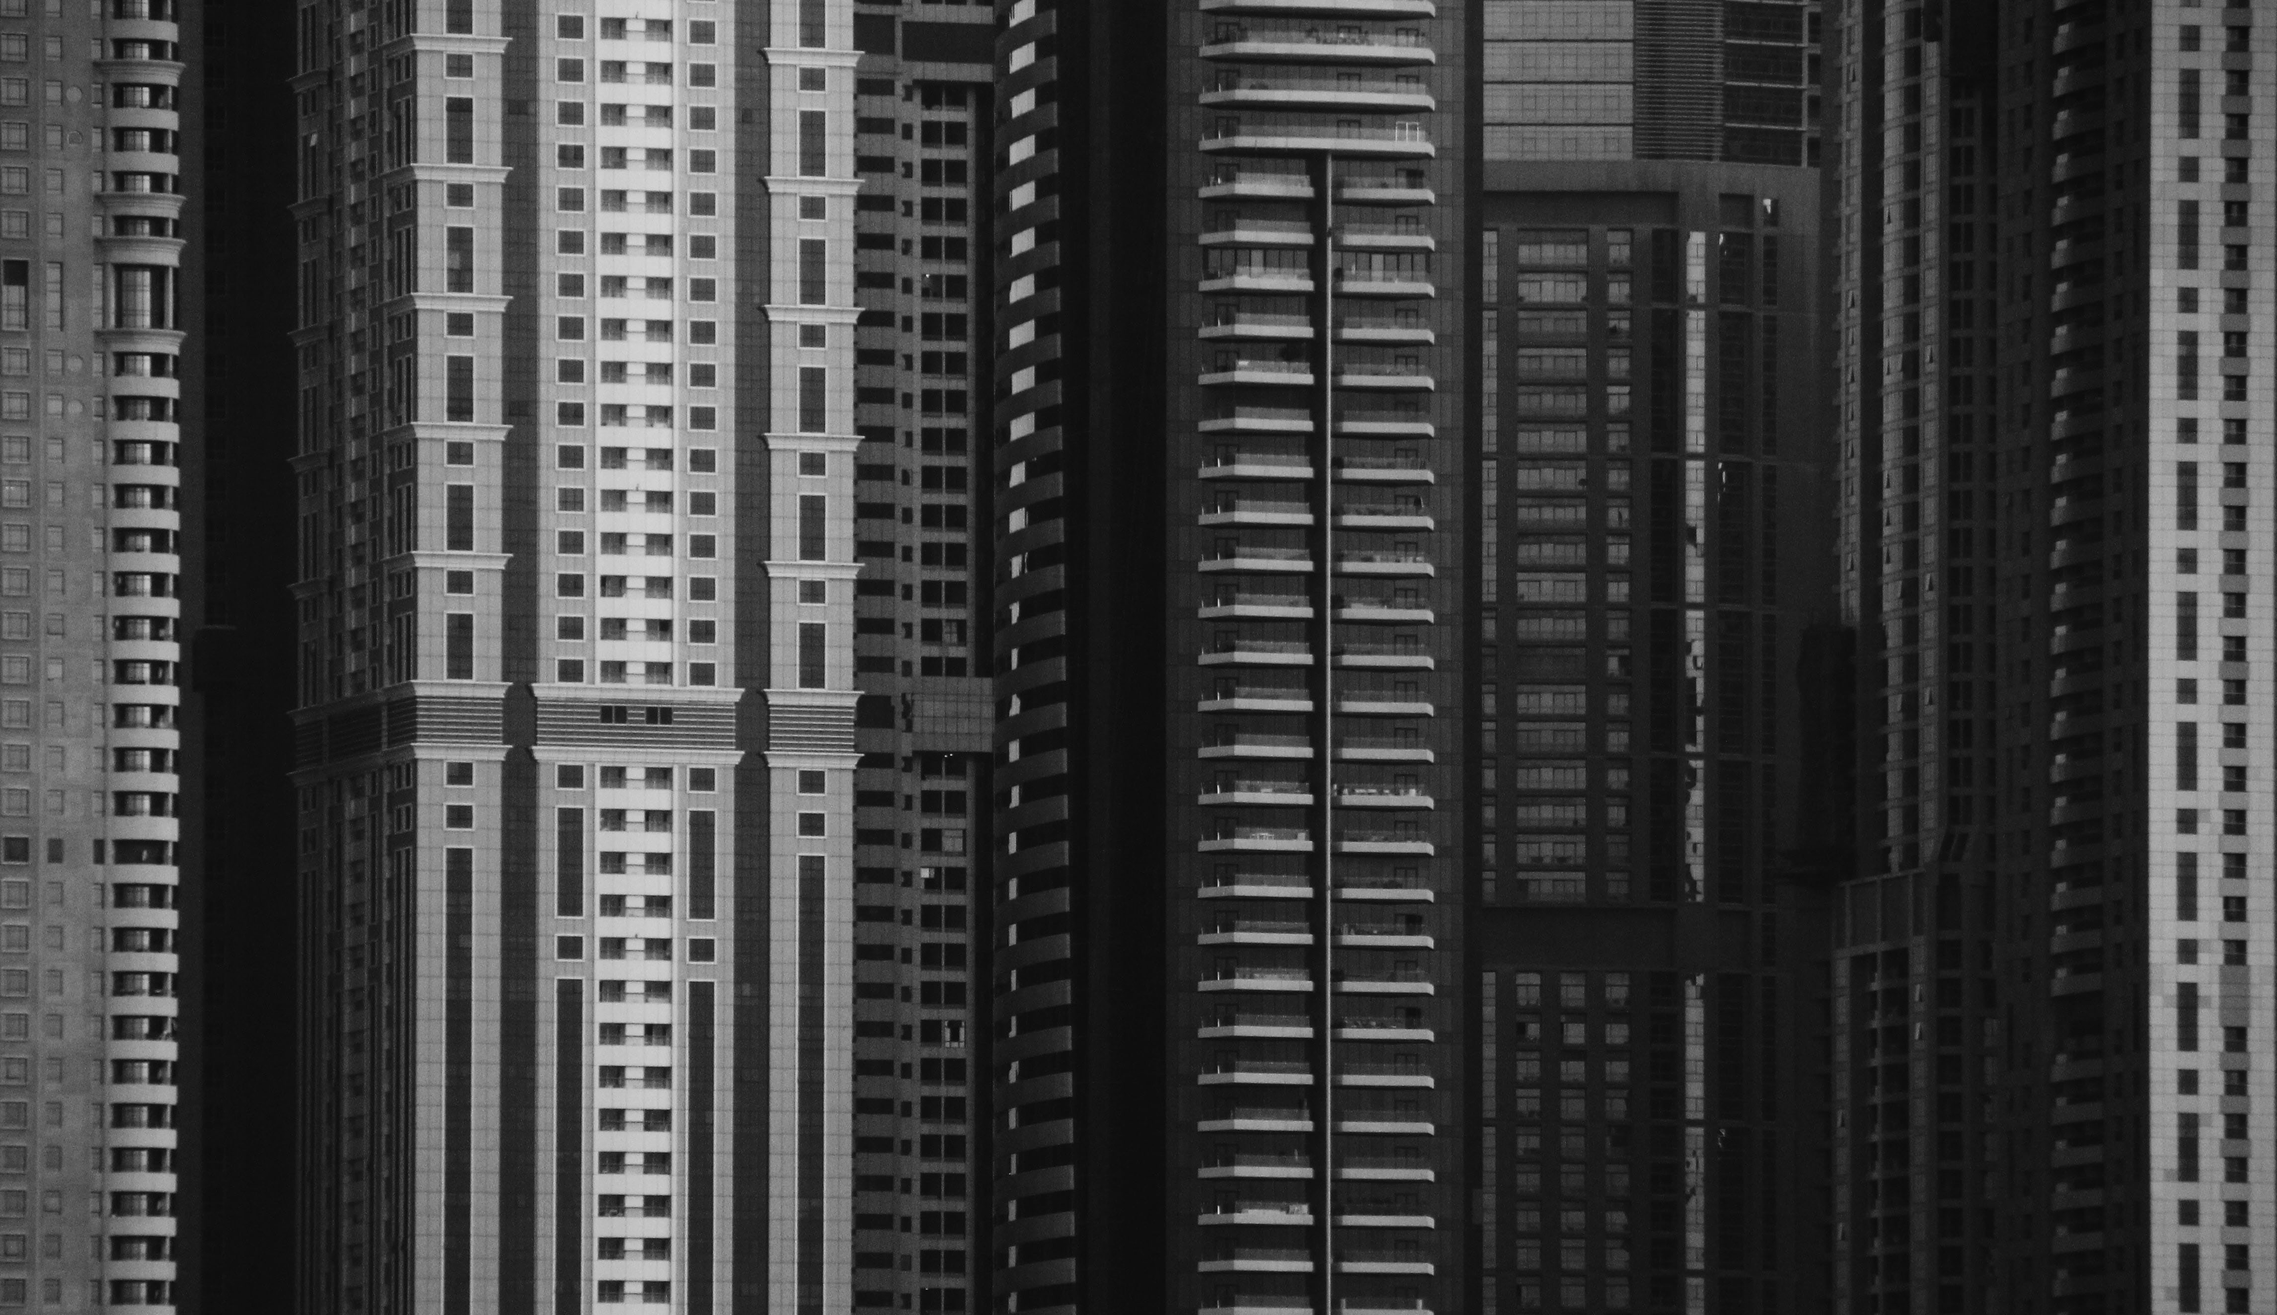
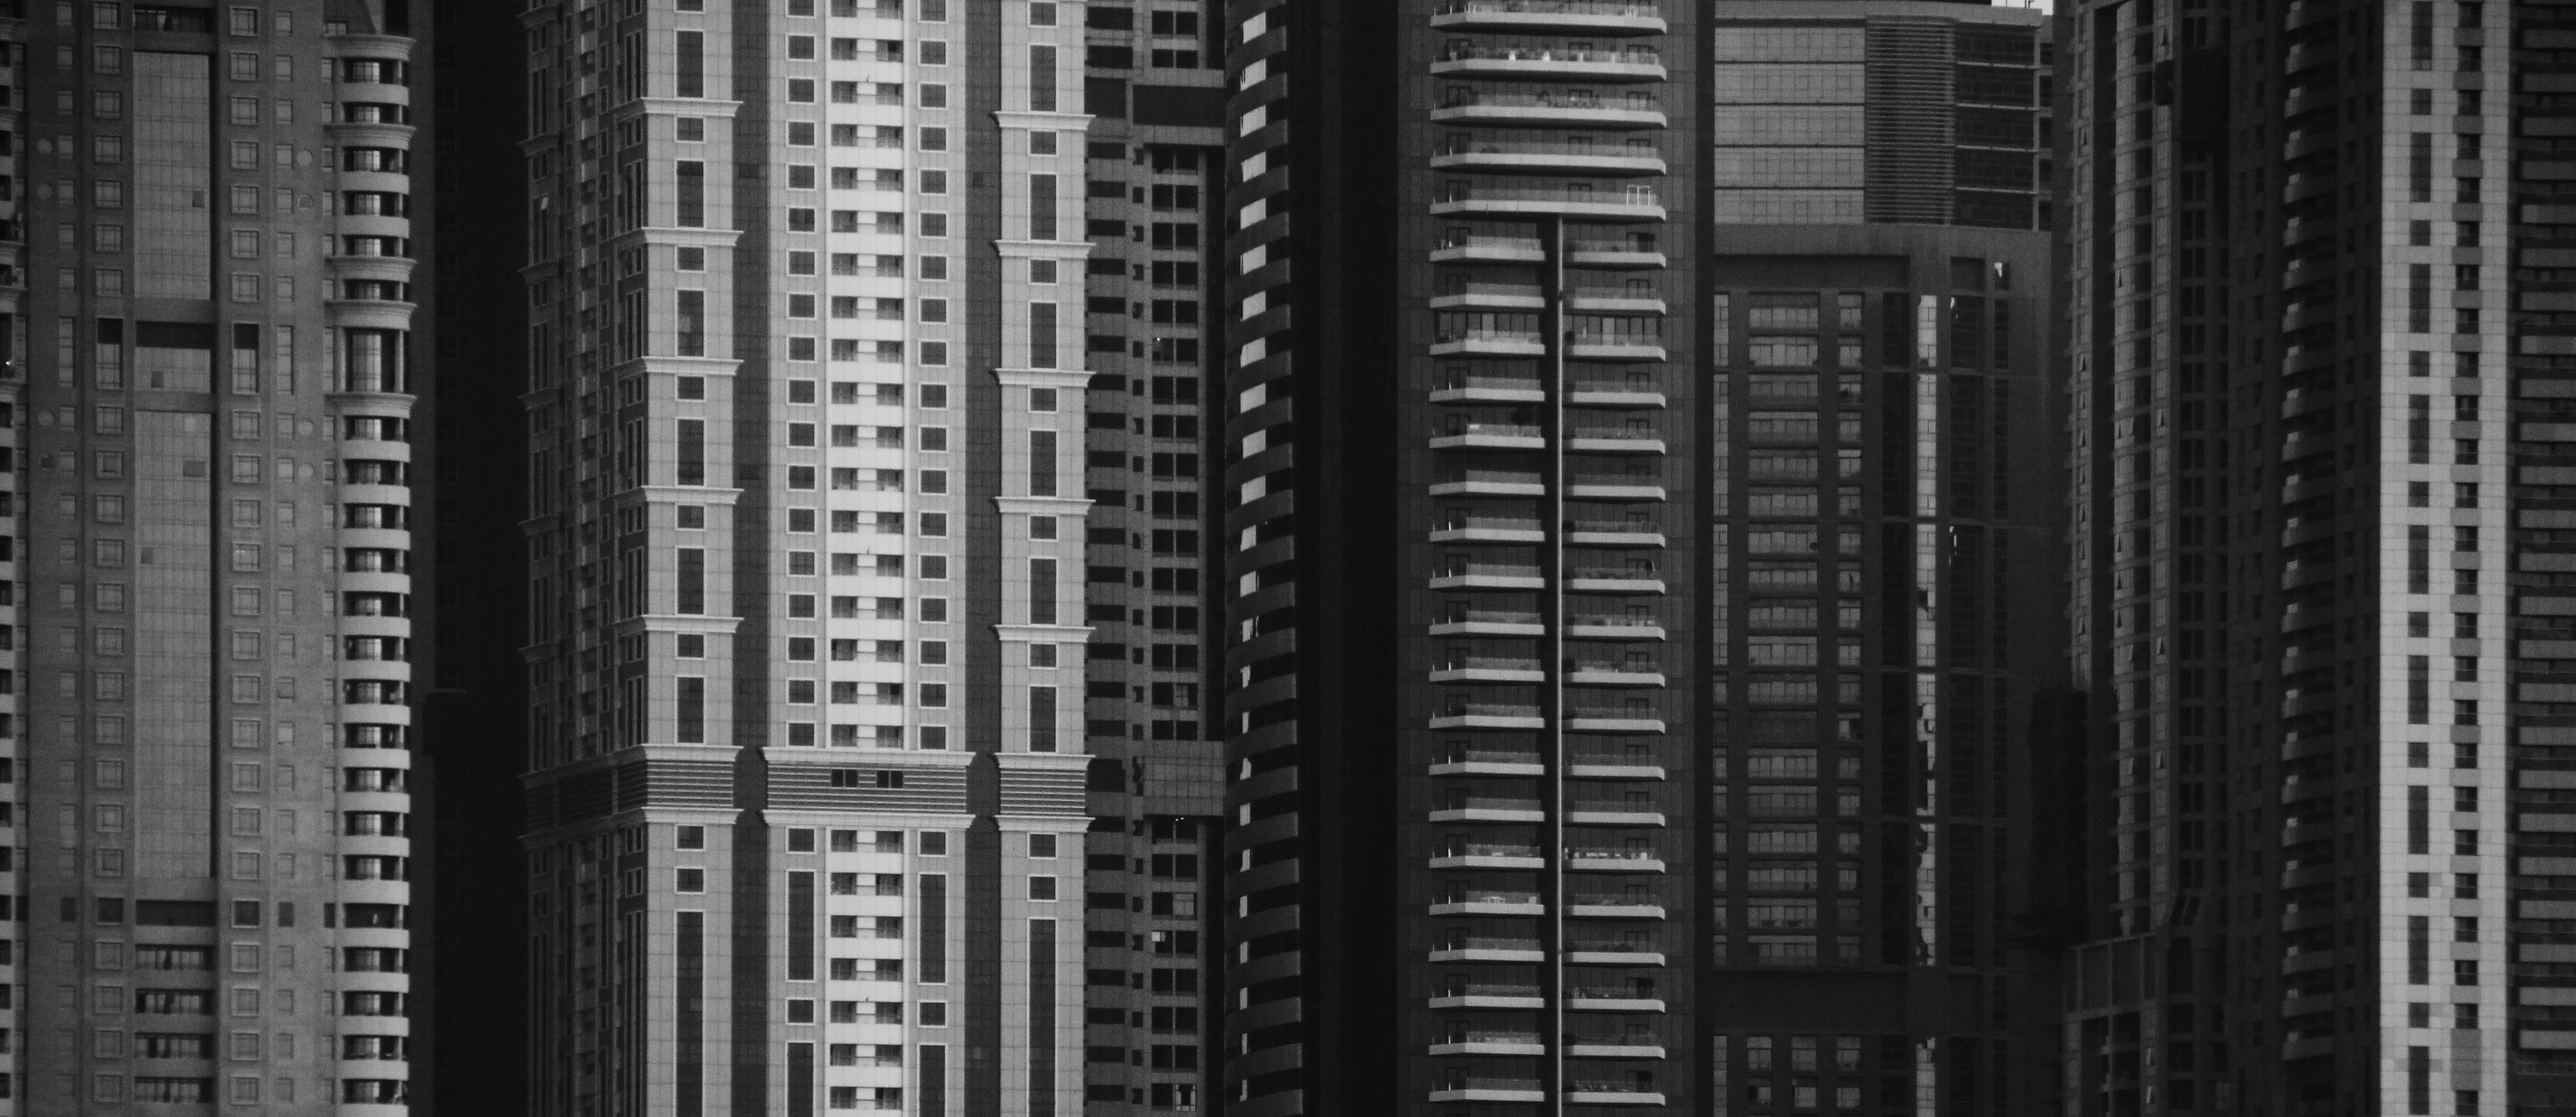
About images resize

diff --git a/about.html b/about.html
@@ -1,0 +1,140 @@
+<html lang="en"><head>
+    <meta charset="UTF-8">
+    <meta http-equiv="X-UA-Compatible" content="IE=edge">
+    <meta name="viewport" content="width=device-width, initial-scale=1.0">
+    <title>CYBER DEMON DISCO PARTY</title>
+    <link href="css/pages/index.css" rel="stylesheet">
+    <link href="css/media-queries/index-media.css" rel="stylesheet">
+
+    <!--FONT-->
+
+    <!--RAJDHANI-->
+    <link rel="preconnect" href="https://fonts.googleapis.com">
+    <link rel="preconnect" href="https://fonts.gstatic.com" crossorigin>
+    <link href="https://fonts.googleapis.com/css2?family=Rajdhani:wght@300;400;500&display=swap" rel="stylesheet">
+ 
+
+    <!--MULISH-->
+    <link rel="preconnect" href="https://fonts.googleapis.com">
+    <link rel="preconnect" href="https://fonts.gstatic.com" crossorigin>
+    <link href="https://fonts.googleapis.com/css2?family=Mulish:ital,wght@0,200;0,300;0,400;0,500;1,200;1,300;1,400&display=swap" rel="stylesheet">
+
+</head>
+<body>
+
+    <div class="contanier">
+
+        <div class="top">
+
+            <header>
+
+                  <nav>
+    
+                      <ul class="topmenu">
+                          <li><a href="index.html">HOME</a></li>
+                          <li><a href="portfolio.html">PORTFOLIO</a></li>
+                          <li><a href="contact.html">CONTACT</a></li>
+                          <li><a href="about.html">ABOUT</a></li>
+                      </ul>
+    
+                      <button id="party"><a href="contact.html">JOIN THE PARTY</a></button>
+    
+                  </nav>
+
+                  <div class="sub-tank">
+                    <img id="subbanner" src="images/subbanner.jpg" alt="subbanner">
+                    <h1>ABOUT</h1>
+                  </div>
+    
+
+                  <button id="return">
+                      <div class="triangles">
+                          <svg class="triangle-1" width="50" height="50">
+                              <polygon points="25,5 5,45 45,45"></polygon>
+                          </svg>
+
+                          <svg class="triangle-2" width="50" height="50">
+                              <polygon points="25,5 5,45 45,45"></polygon>
+                          </svg>
+
+                          <svg class="triangle-3" width="50" height="50">
+                              <polygon points="25,5 5,45 45,45"></polygon>
+                          </svg>   
+                      </div>
+              </button>
+
+           </header>
+            
+        </div>
+
+      <!--==========================CONTENT-START==============================-->
+
+      <main>
+
+        <div class="content">
+
+            <img src="images/office.jpg" alt="office" id="office">
+
+
+
+
+
+
+
+
+
+
+
+
+
+
+
+
+
+
+
+
+
+
+
+
+
+        </div>
+
+
+      </main>
+
+
+        <!--==========================FOOTER==============================-->
+
+
+      <div id="footer">
+
+        <footer>
+
+            <div class="social-links">
+
+                <h3 class="app"><a href="https://www.instagram.com/" target="_blank">[INSTAGRAM]</a></h3>
+
+                <h3 class="app"><a href="https://www.artstation.com/?sort_by=community" target="_blank">[ARTSTATION]</a></h3>
+
+                <h3 class="app"><a href="https://twitter.com/home" target="_blank">[TWITTER]</a></h3>
+
+                <p class="copy-info">©Copyright CYBERDEMONDISCOPARY, 2022</p>
+
+                <p>All images are placeholders taken from <a href="https://unsplash.com/" target="_blank">Unsplash</a></p>
+
+            </div>
+
+        </footer>    
+
+    </div>
+
+  </div>
+
+   
+
+
+</body>
+
+</html>

diff --git a/css/pages/index.css b/css/pages/index.css
@@ -81,6 +81,7 @@ body button{
 
 #mainbanner{
     position: relative;
+    opacity: 0.7;
 }
 
 .main-tank h1{
@@ -89,10 +90,13 @@ body button{
     left: 50%;
     transform: translate(-50%, -50%);
     text-align: center;
-    background-color: rgba(0, 0, 0, 0.7);
+    width: 100%;
+    color: #f10c2a;
+    font-family: 'Rajdhani', sans-serif; 
     font-size: 5em;
-    font-weight: 900;
-    -webkit-text-stroke: #f5f5f5 3px solid;
+    font-weight: 500;
+   
+    
 }
 
 #party{
@@ -108,7 +112,7 @@ body button{
 
 #party a{
     color: #f5f5f5;
-    font-family: 'Rajdhani' sans-serif;
+    font-family: 'Rajdhani', sans-serif;
     font-size: 2em;
 }
 
@@ -137,6 +141,7 @@ body button{
 	padding: 10px 15px 10px 15px;
     font-family: 'Rajdhani' sans-serif;
     z-index: 2;
+    background-color: rgba(0, 0, 0, 0.5);
     border-bottom: #f5f5f5 2px solid;
 }
 
@@ -261,10 +266,10 @@ body button{
     width: 90%;
     height: 100%;
     font-size: 2em; 
-    color: #DB162F;
     opacity: 0;
     transition: inherit;
 }
+
 
 .image-content:hover{
     opacity: 1;
@@ -312,6 +317,7 @@ body button{
     color: #f5f5f5;
     border-top: #f5f5f5 2px solid;
     margin-top: 10px;
+    background-color: rgba(0, 0, 0, 0.5);
 }
 
 .social-links a{
